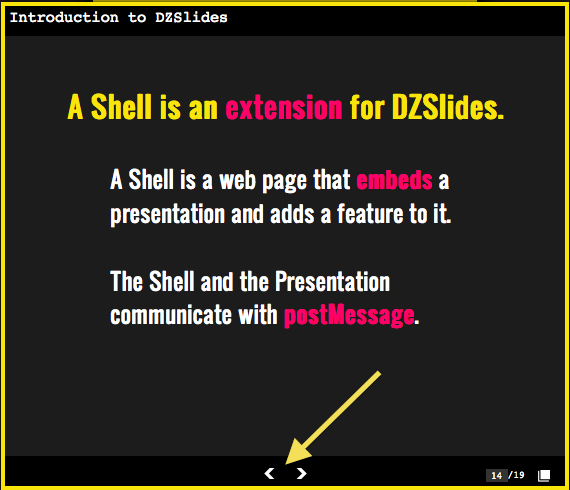
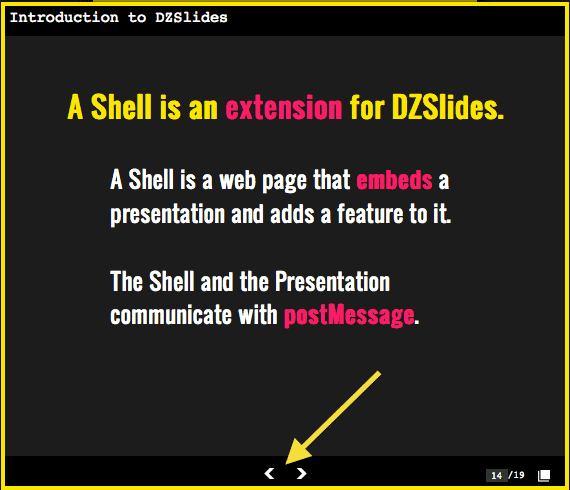
compressing Chapter 6 images

diff --git a/v5/pro-html5-programming/ch6.html b/v5/pro-html5-programming/ch6.html
@@ -142,7 +142,7 @@ function messageHandler(e) {
 <figure id="fig2_6" class="image"><img src="images/ch6/fig6-2.png"><figcaption>Figure 6-2. Real-life use of postMessage API in DZSlides application</figcaption></figure><p>Before the introduction of <code>postMessage</code>, communicating<span class="index-term"><span class="primary">iframes</span><span class="secondary">communication between</span></span>between iframes<span class="index-term"><span class="primary">postMessage API</span><span class="secondary">iframes</span></span> could sometimes be accomplished by direct scripting. A script running in one page would attempt to manipulate another document. This might not be allowed due to security restrictions. Instead of direct programmatic access, <code>postMessage</code> provides asynchronous message passing between JavaScript contexts. As shown in Figure <span class="internal-reference" id="ir_fig3_6">6-3</span>, without <code>postMessage</code>, cross origin communication would result in security errors, enforced by browsers to prevent cross-site scripting attacks<span class="index-term"><span class="primary">postMessage API</span><span class="secondary">cross-site scripting attacks</span></span>.
 
 </p>
-<figure id="fig3_6" class="image"><img src="images/ch6/fig6-3.gif"><figcaption>Figure 6-3. Cross-site scripting <span class="index-term"><span class="primary">cross-site scripting error</span></span>error in earlier version of Firefox and Firebug</figcaption></figure>
+<figure id="fig3_6" class="image"><img src="images/ch6/fig6-3.png"><figcaption>Figure 6-3. Cross-site scripting <span class="index-term"><span class="primary">cross-site scripting error</span></span>error in earlier version of Firefox and Firebug</figcaption></figure>
 
 <p>The <code>postMessage</code> API can be used for communicating between documents with the same origin, but it is particularly useful when communication might otherwise be disallowed by the same-domain policy, which is enforced by browsers. However, there are reasons to use <code>postMessage</code> for messaging between same-origin documents as well because it provides a consistent, easy-to-use API. The <code>postMessage</code> API is used whenever there is communication between JavaScript contexts, such as with HTML5 Web Workers.</p>
 
@@ -252,7 +252,7 @@ window.addEventListener(“message”, messageHandler, true);</code></pre></figu
 <p>Let’s say that you wanted to build<span class="index-term"><span class="primary">postMessage API</span><span class="secondary">building application using</span></span>the aforementioned portal application with its cross-origin chat widget. You can use Cross Document Messaging to communicate<span class="index-term"><span class="primary">Cross Document Messaging</span></span>between the portal page and the chat widget, as shown in Figure <span class="internal-reference" id="ir_fig4_6">6-4</span>.
 
 </p>
-<figure id="fig4_6" class="image"><img src="images/ch6/fig6-4.gif"><figcaption>Figure 6-4. Portal page with cross-origin chat widget iframe</figcaption></figure>
+<figure id="fig4_6" class="image"><img src="images/ch6/fig6-4.png"><figcaption>Figure 6-4. Portal page with cross-origin chat widget iframe</figcaption></figure>
 
 <p>In this example, we show how a<span class="index-term"><span class="primary">postMessage API</span><span class="secondary">building application using</span></span> portal might embed widgets from third parties in iframes. Our example shows a single widget from <code>chat.example.net</code>. The portal page and widget then communicate using <code>postMessage</code>. In this case, the iframe represents a chat widget that wants to notify the user by blinking the title text. This is a common UI technique found in applications that receive events in the background. However, because the widget is isolated in an iframe served from a different origin than the parent page, changing the title would be a security violation. Instead, the widget uses <code>postMessage</code> to request that the parent page perform the notification on its behalf.</p>
 
@@ -685,7 +685,7 @@ xhr.send(a.buffer);</code></pre></figure>
 <h3>Building an Application Using XMLHttpRequest</h3>
 <p>In this example, we’ll look at uploading<span class="index-term"><span class="primary">XMLHttpRequest Level 2</span><span class="secondary">using</span><span class="tertiary">building application</span></span>race geolocation coordinates to a web server hosted on a different origin. We use the new progress events to monitor the status of the HTTP request including the upload percentage. Figure <span class="internal-reference" id="ir_fig6_6">6-6</span> shows the application in action.
 </p>
-<figure id="fig6_6" class="image"><img src="images/ch6/fig6-6.gif"><figcaption>Figure 6-6. A Web Application <span class="index-term"><span class="primary">XMLHttpRequest Level 2</span><span class="secondary">using</span><span class="tertiary">building application</span></span>That Uploads Geolocation Data</figcaption></figure>
+<figure id="fig6_6" class="image"><img src="images/ch6/fig6-6.png"><figcaption>Figure 6-6. A Web Application <span class="index-term"><span class="primary">XMLHttpRequest Level 2</span><span class="secondary">using</span><span class="tertiary">building application</span></span>That Uploads Geolocation Data</figcaption></figure>
 
 <p>For the sake of illustration, we’ve created the HTML file <code>crossOrignUpload.html</code>. The following steps highlight the important parts of building the cross-origin upload page shown in Figure <span class="internal-reference" id="ir_fig5_6">6-5</span>. The sample code for the following examples is located in the <code>code/communication</code> folder.</p>
 
